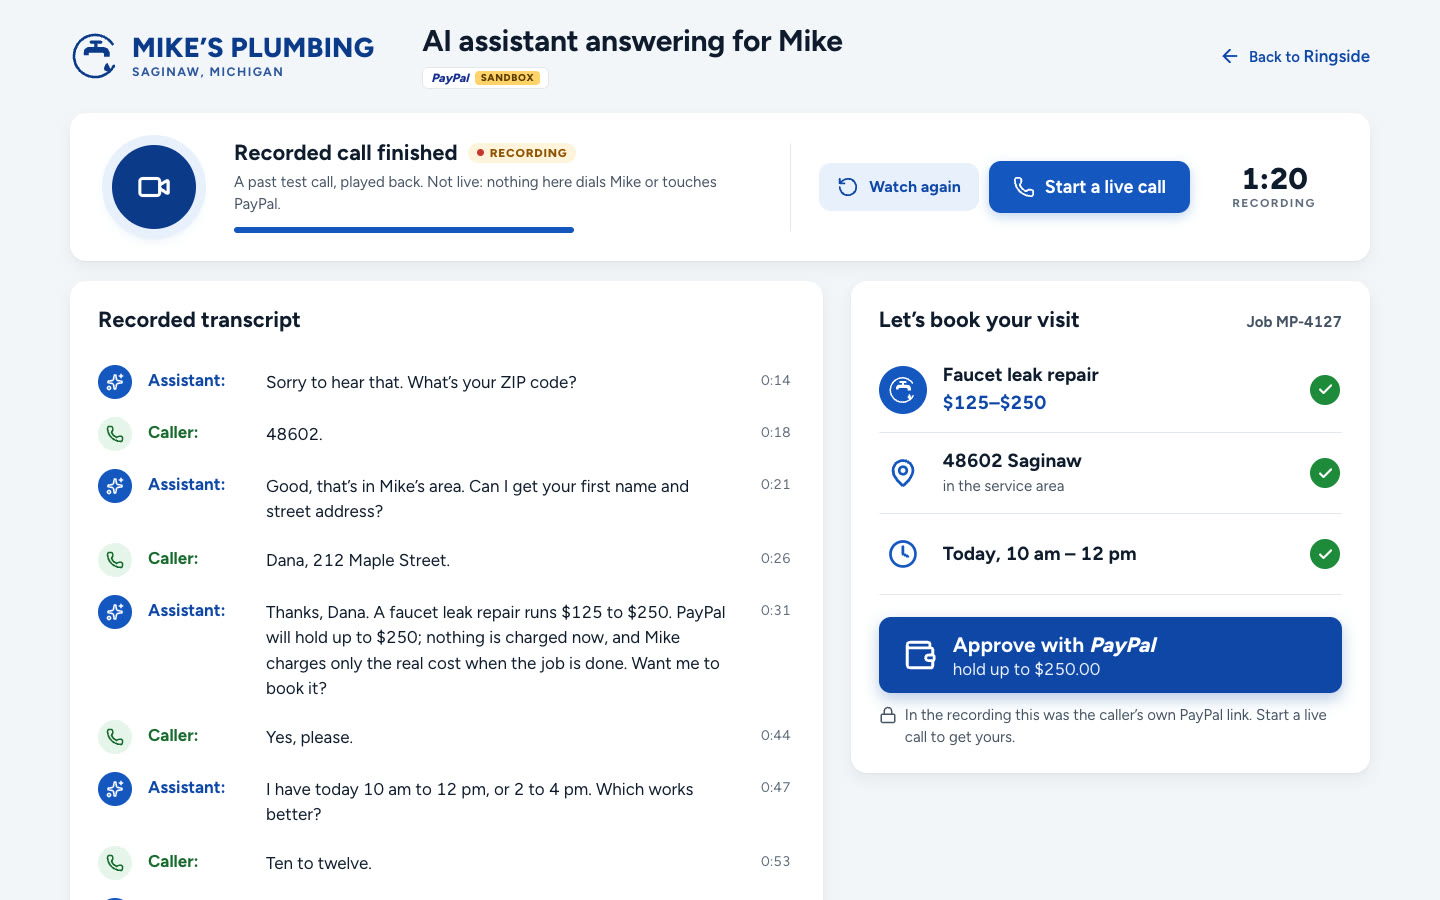
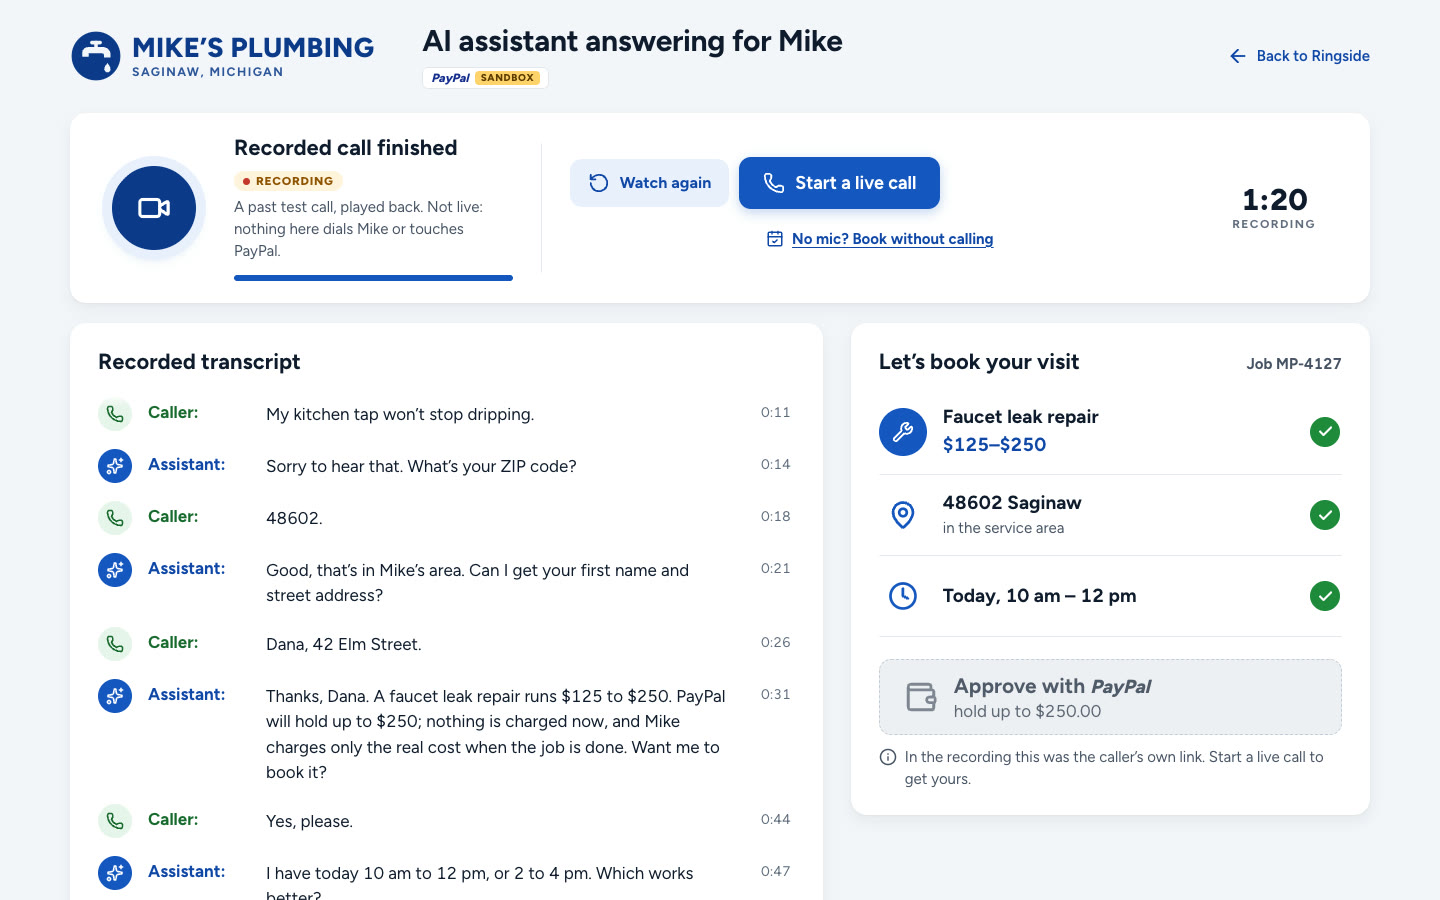
Refresh the README screenshots and keep phone row times on one line
Mike's Today and job screens, the customer's hold and extra-work pages, the desk dashboard and the recorded call are retaken from the current pages, with varied demo jobs instead of three dripping taps. On phones the rest-of-day rows give the visit window room, so '10 am – 12 pm' no longer wraps.

diff --git a/src/app/dashboard/today.module.css b/src/app/dashboard/today.module.css
@@ -246,7 +246,7 @@
 .rowLink,
 .row:not(:has(.rowLink)) {
   display: grid;
-  grid-template-columns: 104px minmax(0, 1fr);
+  grid-template-columns: 122px minmax(0, 1fr);
   gap: 6px 12px;
   padding: 14px 16px;
 }
@@ -277,6 +277,7 @@
   display: flex;
   align-items: center;
   gap: 5px;
+  white-space: nowrap;
   font-size: 14px;
   font-weight: 600;
   color: var(--brand-ink);
